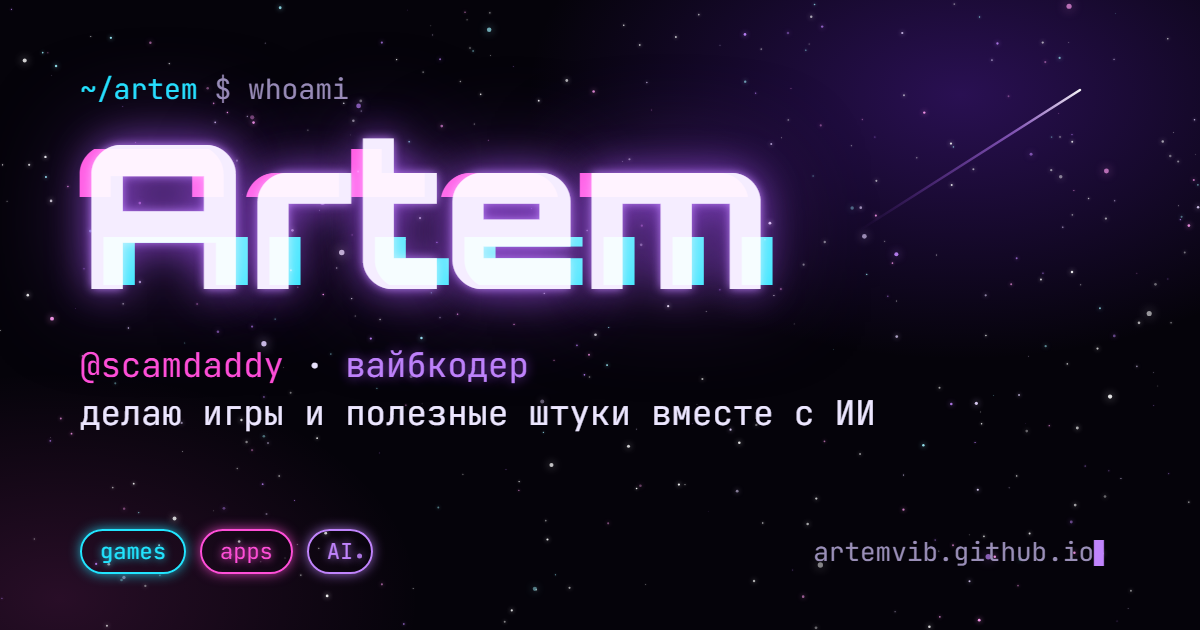
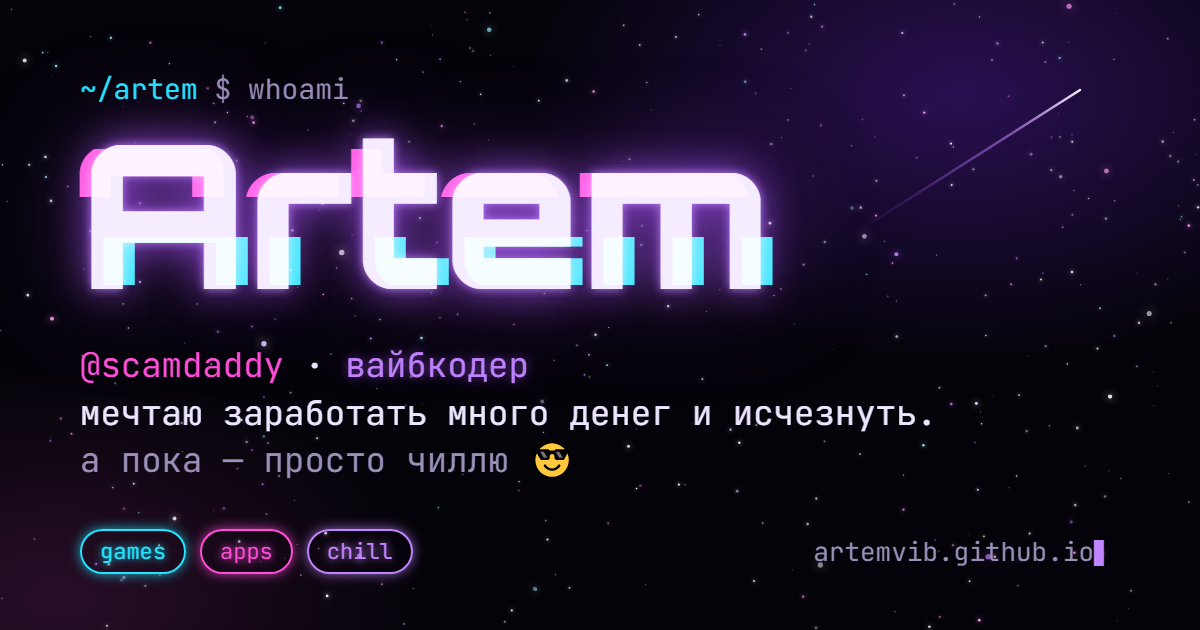
Превью и описания сайта под новую мечту
- описание страницы, Open Graph и Twitter: «мечтаю заработать много денег
  и исчезнуть, а пока — просто чиллю» (RU/EN)
- новая картинка превью 1200×630 с тем же текстом и тегом chill

Changed region(s): [[0.0617, 0.6333, 0.7708, 0.754], [0.2775, 0.8143, 0.37, 0.9349]]

diff --git a/index.html b/index.html
@@ -4,7 +4,7 @@
   <meta charset="UTF-8">
   <meta name="viewport" content="width=device-width, initial-scale=1">
   <title>Artem — @scamdaddy</title>
-  <meta name="description" content="вайбкодер. делаю игры и полезные штуки вместе с ИИ.">
+  <meta name="description" content="вайбкодер. мечтаю заработать много денег и исчезнуть, а пока — просто чиллю.">
   <meta name="theme-color" content="#05030a">
   <meta name="color-scheme" content="dark">
   <link rel="canonical" href="https://artemvib.github.io/">
@@ -21,7 +21,7 @@
   <meta property="og:site_name" content="Artem — @scamdaddy">
   <meta property="og:url" content="https://artemvib.github.io/">
   <meta property="og:title" content="Artem — @scamdaddy">
-  <meta property="og:description" content="вайбкодер. делаю игры и полезные штуки вместе с ИИ. заходи — тут звёзды, глитч и терминал.">
+  <meta property="og:description" content="вайбкодер. мечтаю заработать много денег и исчезнуть, а пока — просто чиллю. заходи — тут звёзды, глитч и терминал.">
   <meta property="og:image" content="https://artemvib.github.io/assets/og-image.png">
   <meta property="og:image:width" content="1200">
   <meta property="og:image:height" content="630">
@@ -32,7 +32,7 @@
   <!-- То же для X (Twitter) -->
   <meta name="twitter:card" content="summary_large_image">
   <meta name="twitter:title" content="Artem — @scamdaddy">
-  <meta name="twitter:description" content="вайбкодер. делаю игры и полезные штуки вместе с ИИ.">
+  <meta name="twitter:description" content="вайбкодер. мечтаю заработать много денег и исчезнуть, а пока — просто чиллю.">
   <meta name="twitter:image" content="https://artemvib.github.io/assets/og-image.png">
 
   <!-- Метка «JavaScript работает»: только тогда прячем блоки до появления при прокрутке -->

diff --git a/tools/og-image.html b/tools/og-image.html
@@ -76,6 +76,7 @@
 
     .tagline .pink { color: #ff4fd8; }
     .tagline .violet { color: #c084fc; text-shadow: 0 0 12px rgba(168, 85, 247, 0.7); }
+    .tagline .muted { color: #9a8fb8; }
 
     .footer {
       position: absolute;
@@ -109,13 +110,13 @@
     <div class="content">
       <p class="prompt"><b>~/artem</b> $ whoami</p>
       <h1 class="name">Artem</h1>
-      <p class="tagline"><span class="pink">@scamdaddy</span> · <span class="violet">вайбкодер</span><br>делаю игры и полезные штуки вместе с ИИ</p>
+      <p class="tagline"><span class="pink">@scamdaddy</span> · <span class="violet">вайбкодер</span><br>мечтаю заработать много денег и исчезнуть.<br><span class="muted">а пока — просто чиллю 😎</span></p>
     </div>
     <div class="footer">
       <div class="tags">
         <span class="tag" style="color:#22e5ff">games</span>
         <span class="tag" style="color:#ff4fd8">apps</span>
-        <span class="tag" style="color:#c084fc">AI</span>
+        <span class="tag" style="color:#c084fc">chill</span>
       </div>
       <span class="url">artemvib.github.io<span class="cursor">▍</span></span>
     </div>

diff --git a/js/i18n.js b/js/i18n.js
@@ -7,7 +7,7 @@
 window.I18N = {
   ru: {
     'meta.title': 'Artem — @scamdaddy',
-    'meta.description': 'вайбкодер. делаю игры и полезные штуки вместе с ИИ.',
+    'meta.description': 'вайбкодер. мечтаю заработать много денег и исчезнуть, а пока — просто чиллю.',
     'lang.label': 'язык',
 
     'hero.greeting': [
@@ -75,7 +75,7 @@ window.I18N = {
 
   en: {
     'meta.title': 'Artem — @scamdaddy',
-    'meta.description': 'vibe coder. i make games and useful stuff together with AI.',
+    'meta.description': 'vibe coder. dreaming of making a lot of money and disappearing, for now — just chilling.',
     'lang.label': 'language',
 
     'hero.greeting': [
